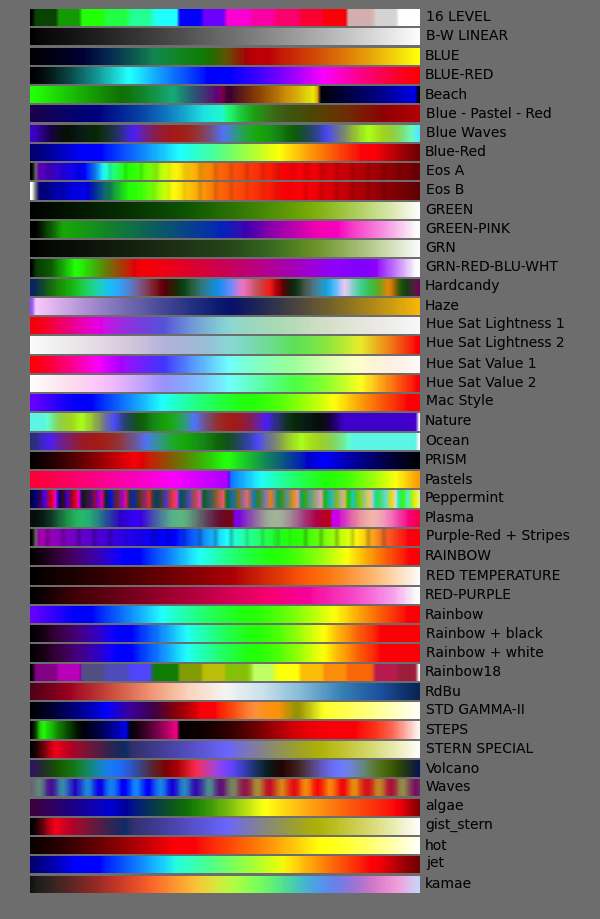
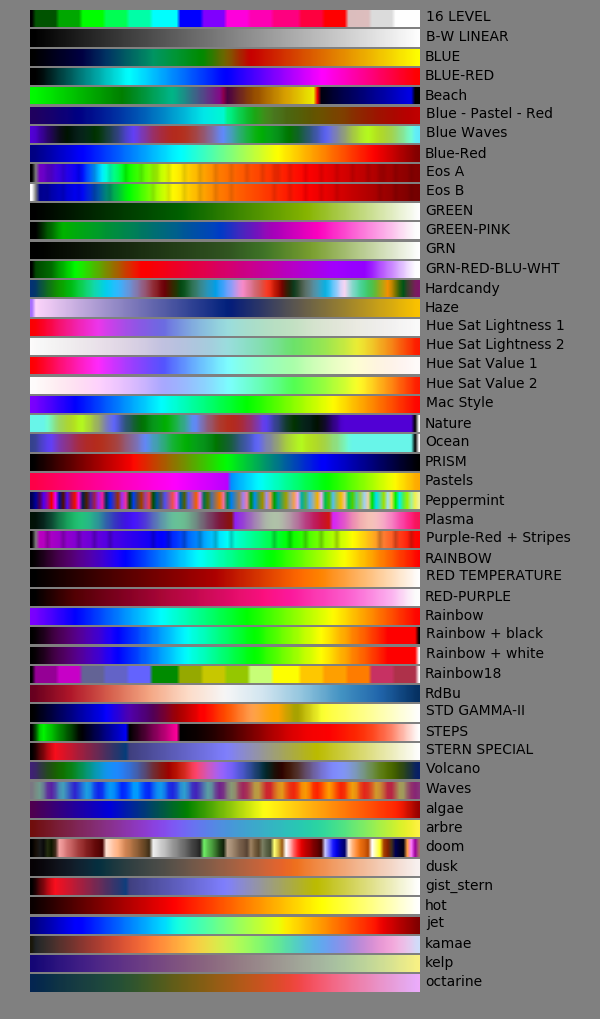
Switch from jet to dusk
--HG--
branch : yt

diff --git a/yt/visualization/color_maps.py b/yt/visualization/color_maps.py
@@ -207,16 +207,17 @@ def show_colormaps(subset="all", filename=None):
         If filename is set, then it will save the colormaps to an output
         file.  If it is not set, it will "show" the result interactively.
     """
-    import pylab as pl
+    import matplotlib.pyplot as plt
+    import matplotlib.cm as cm
 
     a=np.outer(np.arange(0,1,0.01), np.ones(10))
     if subset == "all":
-        maps = [ m for m in pl.cm.datad if (not m.startswith("idl")) & (not m.endswith("_r"))]
+        maps = [ m for m in cm.cmap_d if (not m.startswith("idl")) & (not m.endswith("_r"))]
     elif subset == "yt_native":
         maps = [ m for m in _cm.color_map_luts if (not m.startswith("idl")) & (not m.endswith("_r"))]
     else:
         try:
-            maps = [ m for m in pl.cm.datad if m in subset]
+            maps = [ m for m in cm.cmap_d if m in subset]
             if len(maps) == 0:
                 raise AttributeError
         except AttributeError:
@@ -226,18 +227,18 @@ def show_colormaps(subset="all", filename=None):
     maps = list(set(maps))
     maps.sort()
     # scale the image size by the number of cmaps
-    pl.figure(figsize=(2.*len(maps)/10.,6))
-    pl.subplots_adjust(top=0.7,bottom=0.05,left=0.01,right=0.99)
+    plt.figure(figsize=(2.*len(maps)/10.,6))
+    plt.subplots_adjust(top=0.7,bottom=0.05,left=0.01,right=0.99)
     l = len(maps)+1
     for i,m in enumerate(maps):
-        pl.subplot(1,l,i+1)
-        pl.axis("off")
-        pl.imshow(a, aspect='auto',cmap=pl.get_cmap(m),origin="lower")      
-        pl.title(m,rotation=90, fontsize=10, verticalalignment='bottom')
+        plt.subplot(1,l,i+1)
+        plt.axis("off")
+        plt.imshow(a, aspect='auto',cmap=plt.get_cmap(m),origin="lower")      
+        plt.title(m,rotation=90, fontsize=10, verticalalignment='bottom')
     if filename is not None:
-        pl.savefig(filename, dpi=100, facecolor='gray') 
+        plt.savefig(filename, dpi=100, facecolor='gray') 
     else:  
-        pl.show()
+        plt.show()
 
 def make_colormap(ctuple_list, name=None, interpolate=True):
     """

diff --git a/doc/source/cookbook/colormaps.py b/doc/source/cookbook/colormaps.py
@@ -7,11 +7,11 @@ ds = yt.load("IsolatedGalaxy/galaxy0030/galaxy0030")
 p = yt.ProjectionPlot(ds, "z", "density", width=(100, 'kpc'))
 p.save()
 
-# Change the colormap to 'jet' and save again.  We must specify
+# Change the colormap to 'dusk' and save again.  We must specify
 # a different filename here or it will save it over the top of
 # our first projection.
-p.set_cmap(field="density", cmap='jet')
-p.save('proj_with_jet_cmap.png')
+p.set_cmap(field="density", cmap='dusk')
+p.save('proj_with_dusk_cmap.png')
 
 # Change the colormap to 'hot' and save again.
 p.set_cmap(field="density", cmap='hot')
